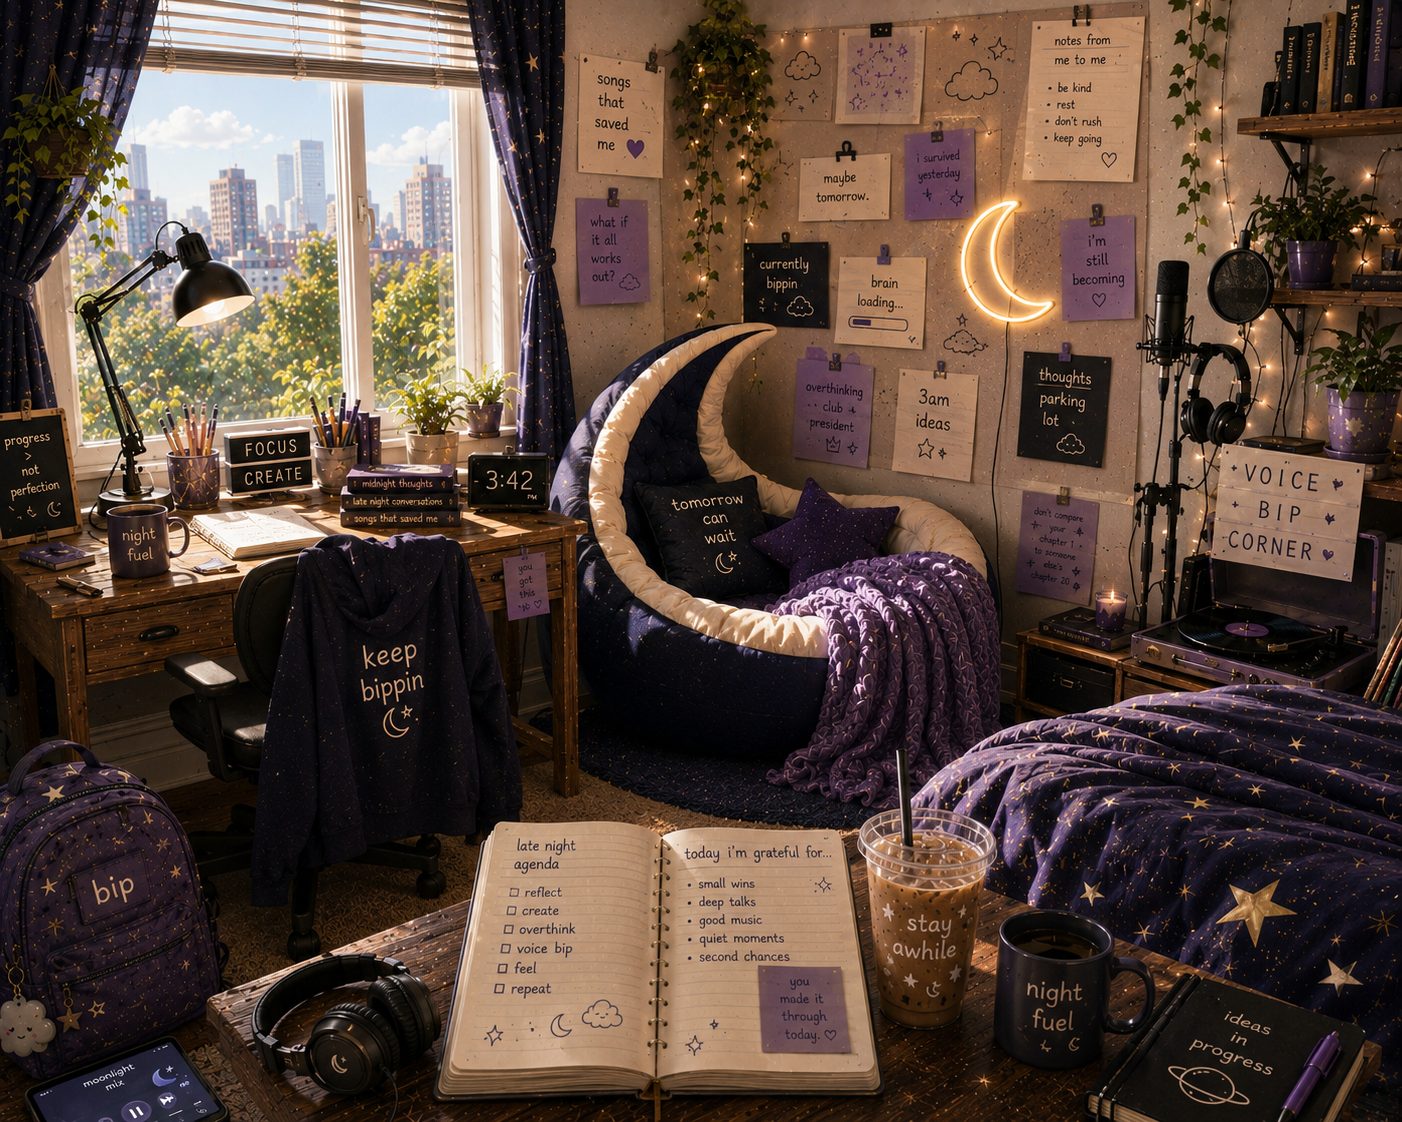
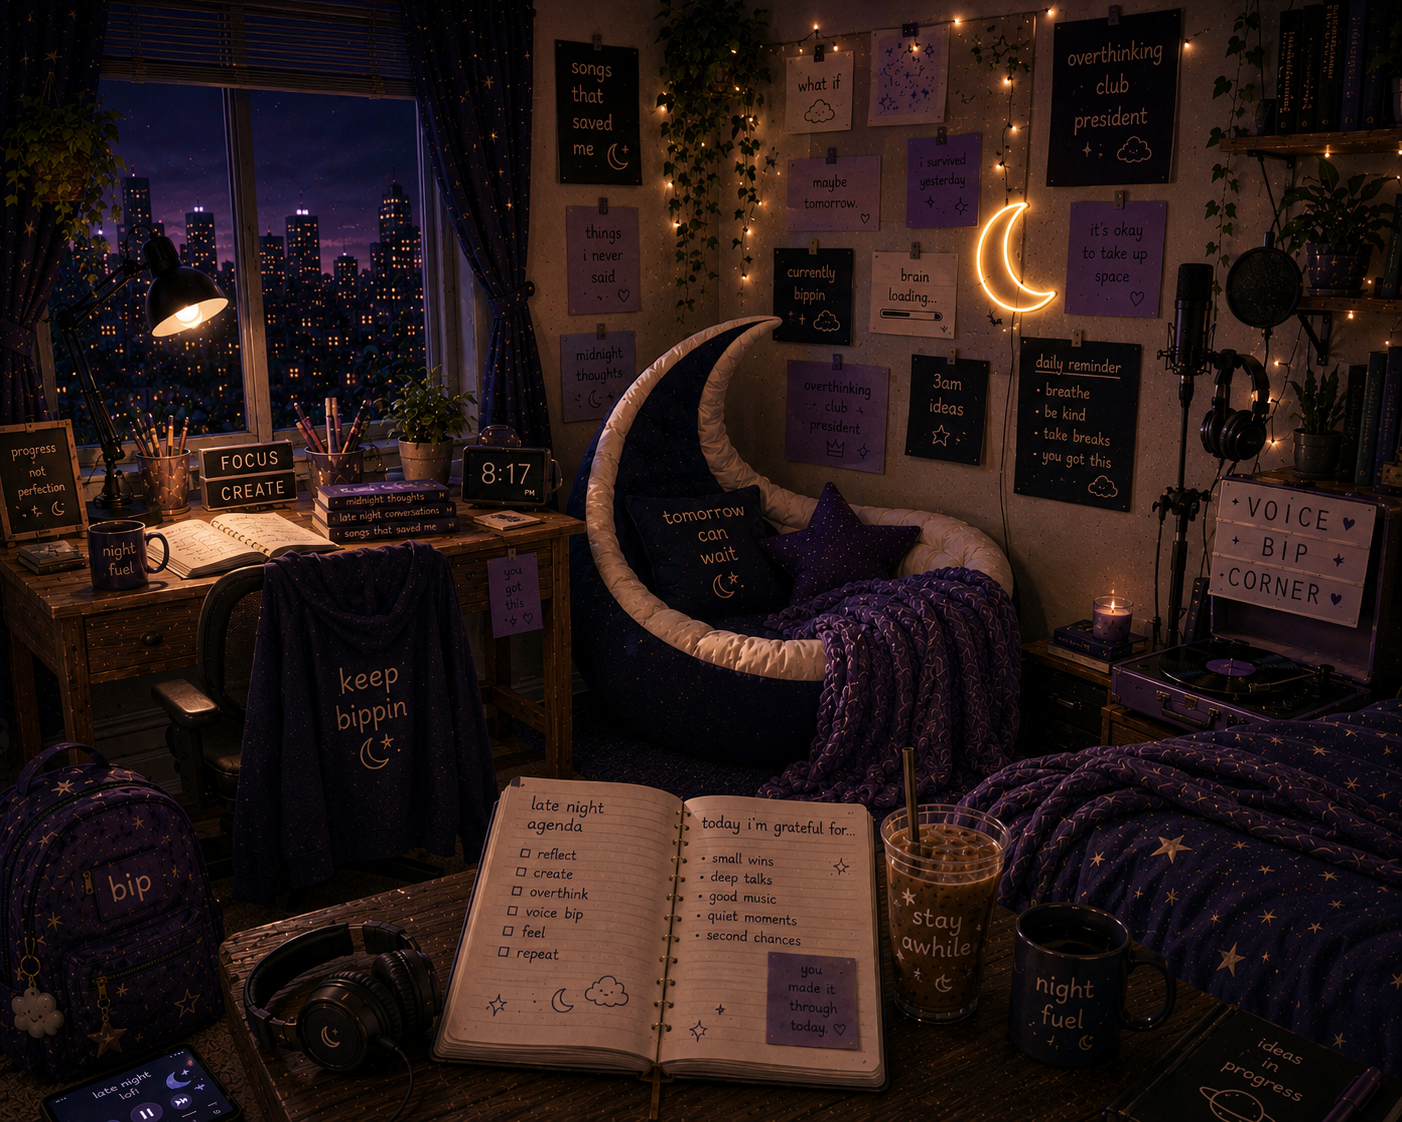
feat: expand room phases to 7 (day/midday/afternoon/evening/night/deepNight/rain)
RoomPhase type gains midday and afternoon. getRoomPhase() now maps:
  5-9   → day       (morning open)
  10-13 → midday    (peak light)
  14-16 → afternoon (golden lean)
  17-20 → evening   (dusk)
  21-23 → night     (city lights)
  0-4   → deepNight (late/2AM)
  any   → rain      (weather override)

Cloud Room — 7 real assets:
  midday    ← 4BB4A7DF (bright purple room, full sun)
  afternoon ← EFF1CA3D (warm light shift)

Night Room — corrected phase labels + 7 real assets:
  midday    ← 6F71DD53 (12:47, bright city, trees visible)
  afternoon ← ACC1D780 (3:42 PM, golden city) [was evening]
  evening   ← 284231DD (8:17 PM, city lights) [was night]
  night     ← 7814EE18 (12:43 AM) [was same as deep-night]

getRoomScene() falls back gracefully for characters without midday/afternoon
art (Raylene/Rylane → day, Rylane → evening respectively).

ROOM_PHASE_OVERLAYS extended for midday and afternoon phases.

https://claude.ai/code/session_01TME6VyQLa2MQdTor1R2Hav

diff --git a/constants/theme.ts b/constants/theme.ts
@@ -66,20 +66,24 @@ const bgRylaneRoomDeepNight = require("../assets/images/bg-rylane-room-deep-nigh
 // open journals, bean bag, headphones, brain-dump backpack, scrapbook walls.
 // NOT a floating sky — it's the place you go when your brain is loud.
 const bgCloudRoomDay       = require("../assets/images/bg-cloud-room-day.png");
+const bgCloudRoomMidday    = require("../assets/images/bg-cloud-room-midday.png");
+const bgCloudRoomAfternoon = require("../assets/images/bg-cloud-room-afternoon.png");
 const bgCloudRoomEvening   = require("../assets/images/bg-cloud-room-evening.png");
-const bgCloudRoomRain      = require("../assets/images/bg-cloud-room-rain.png");
 const bgCloudRoomNight     = require("../assets/images/bg-cloud-room-night.png");
 const bgCloudRoomDeepNight = require("../assets/images/bg-cloud-room-deep-night.png");
+const bgCloudRoomRain      = require("../assets/images/bg-cloud-room-rain.png");
 
 // ── Night Room Backgrounds — REAL ASSETS ──────────────────────────────────
 // Night Room identity: crescent moon chair, galaxy bedding, "Voice Bip Corner"
 // light-box sign, city window with clock, sticky notes everywhere, 2AM energy.
 // NOT Raylene's room — completely different furniture, palette, and spirit.
 const bgNightRoomDay       = require("../assets/images/bg-night-room-day.png");
+const bgNightRoomMidday    = require("../assets/images/bg-night-room-midday.png");
+const bgNightRoomAfternoon = require("../assets/images/bg-night-room-afternoon.png");
 const bgNightRoomEvening   = require("../assets/images/bg-night-room-evening.png");
-const bgNightRoomRain      = require("../assets/images/bg-night-room-rain.png");
 const bgNightRoomNight     = require("../assets/images/bg-night-room-night.png");
 const bgNightRoomDeepNight = require("../assets/images/bg-night-room-deep-night.png");
+const bgNightRoomRain      = require("../assets/images/bg-night-room-rain.png");
 
 // ── Night Avatar — REAL ASSETS NEEDED ─────────────────────────────────────
 // Replace when night-*.png ships: night-neutral · night-window · night-comfort · night-listening
@@ -173,19 +177,23 @@ export const IMAGES = {
   rylaneVoiceNight,
   rylaneWindowDay,
 
-  // Cloud Room Backgrounds (fallbacks until real art ships)
+  // Cloud Room Backgrounds
   bgCloudRoomDay,
+  bgCloudRoomMidday,
+  bgCloudRoomAfternoon,
   bgCloudRoomEvening,
-  bgCloudRoomRain,
   bgCloudRoomNight,
   bgCloudRoomDeepNight,
+  bgCloudRoomRain,
 
-  // Night Room Backgrounds (fallbacks until real art ships)
+  // Night Room Backgrounds
   bgNightRoomDay,
+  bgNightRoomMidday,
+  bgNightRoomAfternoon,
   bgNightRoomEvening,
-  bgNightRoomRain,
   bgNightRoomNight,
   bgNightRoomDeepNight,
+  bgNightRoomRain,
 
   // Cloud Avatars
   cloudAvatarNeutral,
@@ -286,7 +294,7 @@ export const AVATARS: Record<string, Record<string, any>> = {
 };
 
 export type TimeOfDay = "morning" | "day" | "evening" | "night";
-export type RoomPhase = "day" | "evening" | "rain" | "night" | "deepNight";
+export type RoomPhase = "day" | "midday" | "afternoon" | "evening" | "rain" | "night" | "deepNight";
 
 export function getRoomPhase(
   date = new Date(),
@@ -294,10 +302,12 @@ export function getRoomPhase(
 ): RoomPhase {
   if (weatherMode === "rain") return "rain";
   const hour = date.getHours();
-  if (hour >= 6 && hour < 17) return "day";
-  if (hour >= 17 && hour < 20) return "evening";
-  if (hour >= 20 || hour < 1) return "night";
-  return "deepNight";
+  if (hour >= 5  && hour < 10) return "day";
+  if (hour >= 10 && hour < 14) return "midday";
+  if (hour >= 14 && hour < 17) return "afternoon";
+  if (hour >= 17 && hour < 21) return "evening";
+  if (hour >= 21 && hour < 24) return "night";
+  return "deepNight"; // midnight–5 AM
 }
 
 const ROOM_PREFIX: Record<Character, string> = {
@@ -312,11 +322,17 @@ export function getRoomScene(
   phase: RoomPhase,
 ): ImageSourcePropType {
   const prefix = ROOM_PREFIX[character] ?? "bgRayleneRoom";
-  const suffix =
-    phase === "deepNight"
-      ? "DeepNight"
-      : phase.charAt(0).toUpperCase() + phase.slice(1);
+  // deepNight → "DeepNight", midday → "Midday", afternoon → "Afternoon", etc.
+  const suffix = phase === "deepNight" ? "DeepNight"
+               : phase === "midday"    ? "Midday"
+               : phase === "afternoon" ? "Afternoon"
+               : phase.charAt(0).toUpperCase() + phase.slice(1);
   const key = `${prefix}${suffix}` as keyof typeof IMAGES;
+  // Raylene/Rylane don't have midday/afternoon art — fall back to nearest phase.
+  if (!IMAGES[key]) {
+    if (phase === "midday")    return getRoomScene(character, "day");
+    if (phase === "afternoon") return getRoomScene(character, "evening");
+  }
   return (IMAGES[key] ?? IMAGES.bgRayleneRoomDay) as ImageSourcePropType;
 }
 

diff --git a/screens/RoomScreen.tsx b/screens/RoomScreen.tsx
@@ -51,6 +51,8 @@ type AvatarMap = Record<Pose, ImageSourcePropType>;
 
 const ROOM_PHASE_OVERLAYS: Record<RoomPhase, string> = {
   day:       'rgba(255,225,180,0.08)',
+  midday:    'rgba(255,210,140,0.10)',
+  afternoon: 'rgba(200,130,60,0.12)',
   evening:   'rgba(91,45,120,0.18)',
   rain:      'rgba(35,85,125,0.30)',
   night:     'rgba(20,10,55,0.28)',
